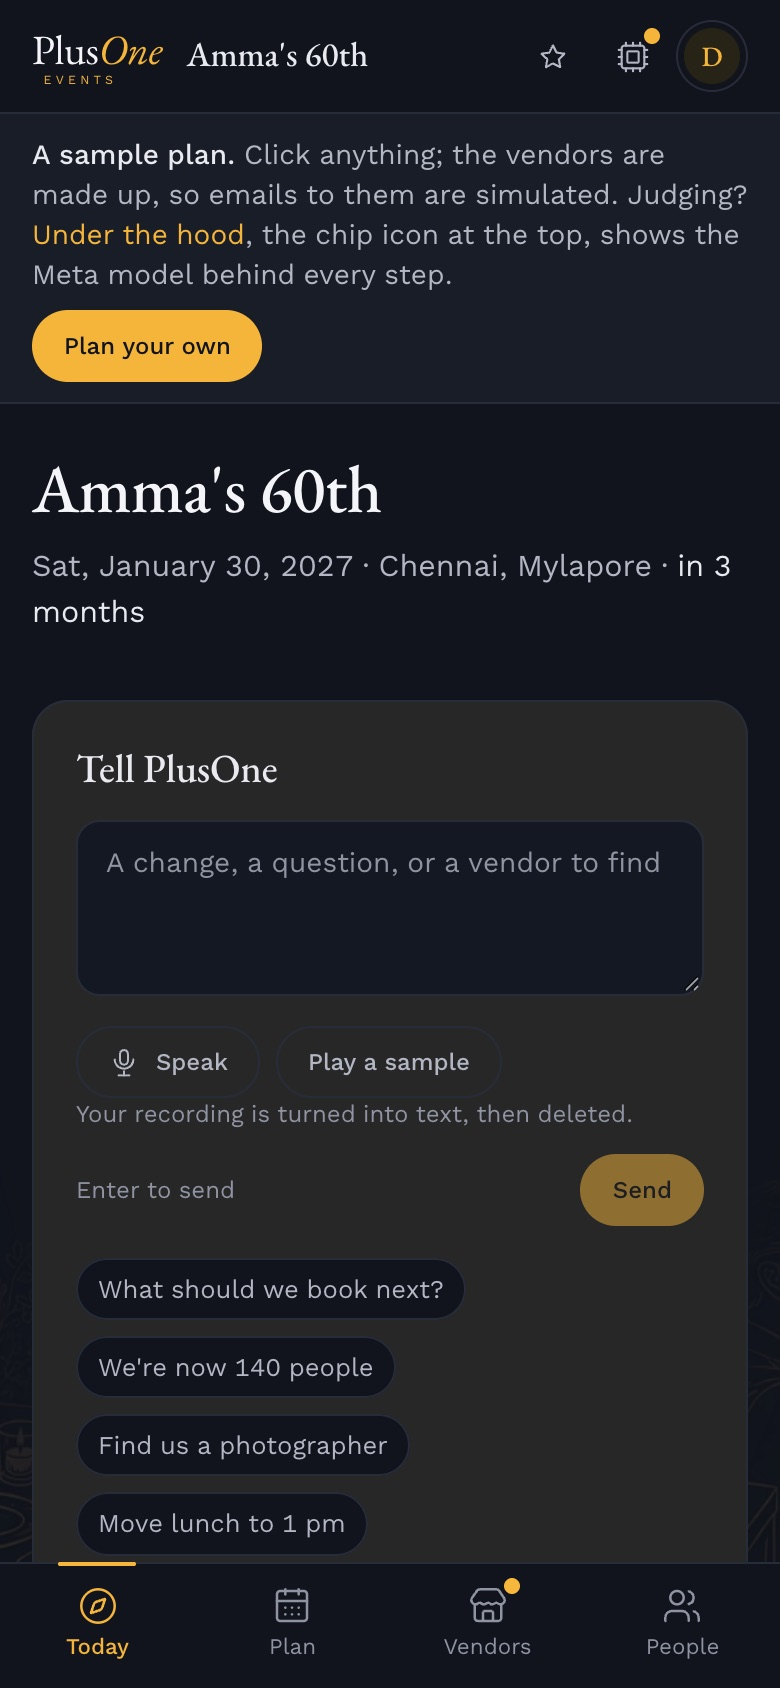
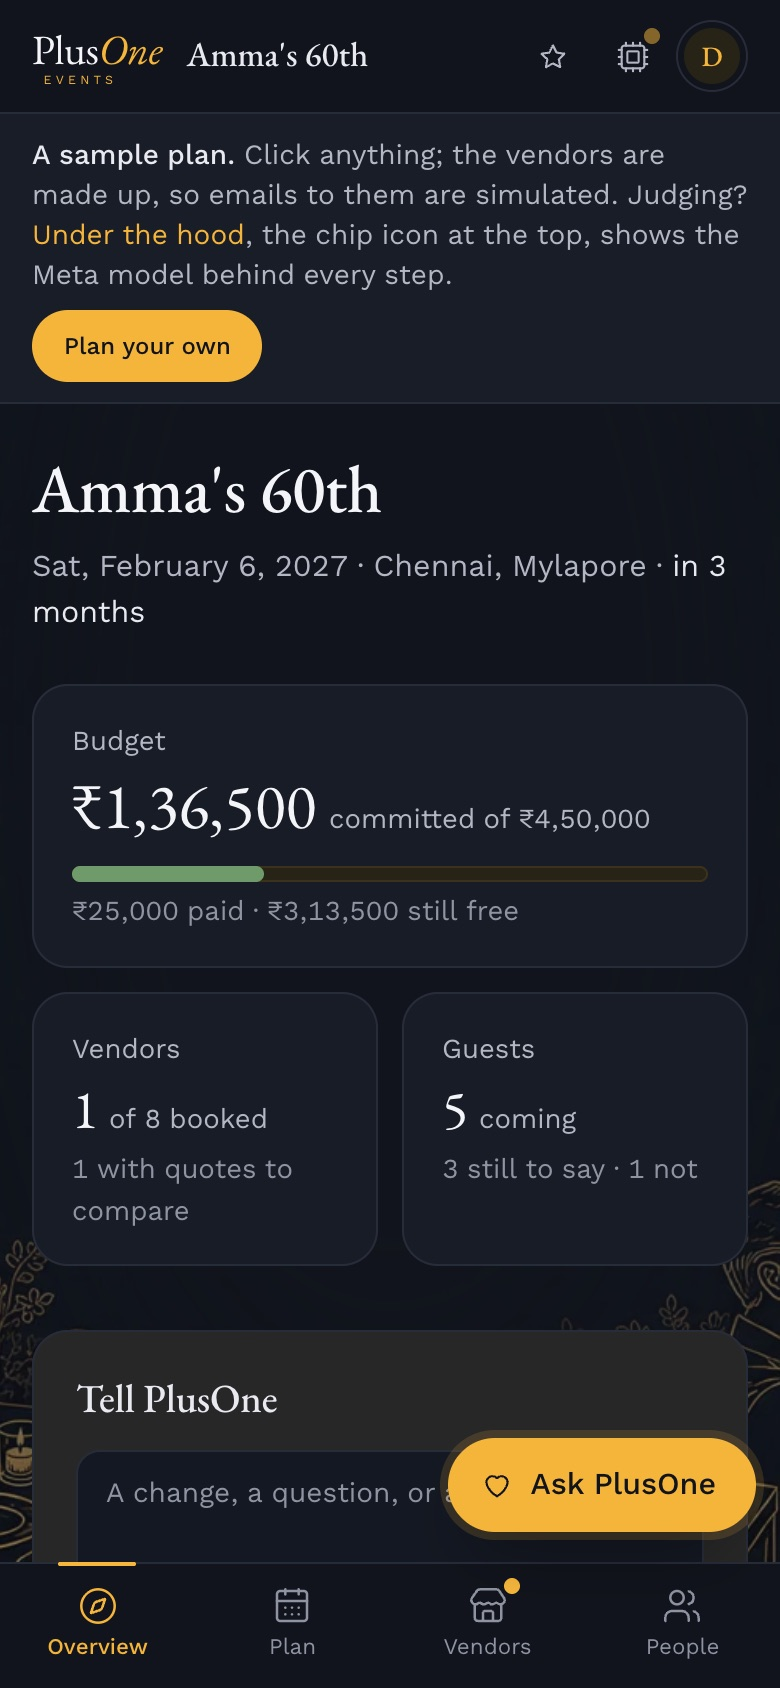
README and docs: Overview, booking outside PlusOne, milestones and RSVP links; 803 tests; new screenshots
Today is Overview everywhere in the README, How it works and What's new,
with fresh screenshots of the live demo's Overview (laptop and phone) and
the Plan lane showing planned amounts. Today's features are listed: a
vendor booked outside PlusOne in one step (also from the assistant),
Overview with the budget first, milestones instead of vendors' names, and
everyone's RSVP links on the event page.

diff --git a/README.md b/README.md
@@ -16,7 +16,7 @@
 ![Event](https://img.shields.io/badge/event-Meta_Global_AI_Developer_Hackathon-f4b53a?style=flat-square&labelColor=11141c)
 ![Track](https://img.shields.io/badge/track-Startups-f4b53a?style=flat-square&labelColor=11141c)
 ![Status](https://img.shields.io/badge/status-working_end_to_end-c4dfbc?style=flat-square&labelColor=11141c)
-![Tests](https://img.shields.io/badge/tests-796_passing-c4dfbc?style=flat-square&labelColor=11141c)
+![Tests](https://img.shields.io/badge/tests-803_passing-c4dfbc?style=flat-square&labelColor=11141c)
 [![License](https://img.shields.io/badge/license-FSL--1.1--ALv2-b3b7c3?style=flat-square&labelColor=11141c)](LICENSE.md)
 
 <table align="center">
@@ -86,8 +86,8 @@ More vendors on Partner widen what customers can compare; more customers bring v
 ## For the judges
 
 **Try it in two minutes.** [The demo](https://app.plusoneevents.site/demo) opens Amma's 60th with no sign-up (also a griha pravesam, `/demo?sample=housewarming`, and an office Diwali party, `/demo?sample=office`; their vendors are made up, so nothing is really sent).
-1. Start on **Today**, then **Vendors → Compare**: three caterers' emailed quotes and two sample Partner vendors' offers sit line by line on the same sheet, with what each leaves out flagged ("No water line, and one other charges ₹600") and the city's price range beside them.
-2. Press **Under the hood** in the top bar for each step's Meta model, time and cost; type "We're now 140 people" on Today to watch one run.
+1. Start on **Overview**, then **Vendors → Compare**: three caterers' emailed quotes and two sample Partner vendors' offers sit line by line on the same sheet, with what each leaves out flagged ("No water line, and one other charges ₹600") and the city's price range beside them.
+2. Press **Under the hood** in the top bar for each step's Meta model, time and cost; type "We're now 140 people" on Overview to watch one run.
 3. Open [PlusOne Partner's demo](https://partner.plusoneevents.site/demo) as a sample caterer, answer the customer's request on the same sheet, and see the offer as the customer does.
 4. Open [Find vendors](https://app.plusoneevents.site/vendors) and search "caterers near Mylapore under 450": vendors on a map in a circle around the area.
 
@@ -130,6 +130,8 @@ Before the event, PlusOne was a planner that talked a plan through, wrote to ven
 | **Vendors found on the open web,** listed openly as "not yet verified" with a link to their own site, to be claimed or removed by the business; vendor research searches the host's own words, never a price | Firecrawl, within robots.txt | Live, 31 Oct |
 | **Shared links that show the event:** an event page, RSVP or plan link shows the event's name, date, place and picture; each kind of event has its own line drawing, or the host's own picture. The event page opens on that picture, with the day as a timeline, a calendar file and directions | | Live, 31 Oct |
 | **A WhatsApp quote dropped on the event:** paste the message or drop the screenshot with no vendor or need chosen; it finds its vendor and need, adds them if new, and lands in Compare | Muse Spark 1.3 | Live, 31 Oct |
+| **A vendor booked outside PlusOne, in one step:** name, price agreed and what's paid; the need is booked, the budget takes the price, what's paid is marked paid and the balance goes on what's due. The assistant offers the same step as a "Do it" card | Muse Spark 1.3 (the assistant's card) | Live, 1 Nov |
+| **Overview, milestones and RSVP links:** the event opens on the budget, vendors booked and people coming; where things stand reads as milestones in the need's own name, never a vendor's; the event page lists everyone's own RSVP link to copy or send on WhatsApp | | Live, 1 Nov |
 
 ### How each criterion is met
 
@@ -137,7 +139,7 @@ Before the event, PlusOne was a planner that talked a plan through, wrote to ven
 |---|---|---|
 | **Impact (30%)**: real-world potential, who benefits, could people use it, fit to the problem statement | Families, teams and event managers plan across calls, chats and spreadsheets, with quotes no two alike and charges that arrive later; vendors with no website can't be found. PlusOne is one app for the whole plan, with every quote on the same lines. Live, free until launch, with a no-sign-up demo; on a real event, charges outside the headline prices came to about 10% of the quoted total. It earns from subscriptions first and, in the end, a disclosed commission on bookings made through PlusOne | [The business](#the-business), [How it works](#how-it-works) |
 | **Use of Meta AI tooling (25%)**: creative, beyond a basic integration, surprising capabilities | Six Meta models, each on the job it suits, chained in one flow, two of them open weights we host (Muse Glimmer on our own GPU, Muse Spark Open on Baseten). Every call shows in Under the hood with its model, time and cost | [Meta's models in PlusOne](#metas-models-in-plusone) |
-| **Technical depth and execution (20%)**: sound, refined engineering, real craft | The model reads; fixed, tested rules decide (what a quote leaves out, the market range, when a quote may move the budget). One wrapper: schema-checked output, retries honouring `Retry-After`, a logged fallback, a cost row per call. 796 tests, CI that builds the app, the live demo walked in a browser after every push and every three hours, an uptime check every five minutes, and evaluations with raw results, including a held-out set written by a separate agent | [Architecture](#architecture), [Measured results](#measured-results) |
+| **Technical depth and execution (20%)**: sound, refined engineering, real craft | The model reads; fixed, tested rules decide (what a quote leaves out, the market range, when a quote may move the budget). One wrapper: schema-checked output, retries honouring `Retry-After`, a logged fallback, a cost row per call. 803 tests, CI that builds the app, the live demo walked in a browser after every push and every three hours, an uptime check every five minutes, and evaluations with raw results, including a held-out set written by a separate agent | [Architecture](#architecture), [Measured results](#measured-results) |
 | **Demo (25%)**: working, impressive, holds up live, a video worth watching | Two demos with no sign-up, the customers' and the vendors', on the live site, with made-up vendors so nothing is really sent; retries, a fallback, rate limits and checks through judging; a three-minute video of the new work | [The demo](https://app.plusoneevents.site/demo), [the vendors' demo](https://partner.plusoneevents.site/demo) |
 
 ### Questions a judge will ask
@@ -173,7 +175,7 @@ Before the event, PlusOne was a planner that talked a plan through, wrote to ven
 | Model | Where it works in PlusOne | Status |
 |---|---|---|
 | **Muse Spark 1.3** (Meta Model API) | Every reading and writing step: the planning conversation, search plans and vendor ranking, inquiries and follow-ups, quotes in replies, PDFs and photos, RSVPs, guest-list imports and the "Tell PlusOne" box. Structured answers come back as JSON Schema, checked against Zod schemas | Live in production since 27 Oct |
-| **Muse Voice Transcribe** | The voice brief, spoken in Tamil, English or both (the demo's Today box can play a recorded sample brief, heard the same way); and a recorded call with a vendor, heard speaker by speaker (diarization) and read into the standard sheet (the demo's 47-second call in 10.9 s, every figure right: ₹460 a plate, GST ₹2,760, transport ₹2,500, water flagged) | Live in production since 28 Oct |
+| **Muse Voice Transcribe** | The voice brief, spoken in Tamil, English or both (the demo's Overview box can play a recorded sample brief, heard the same way); and a recorded call with a vendor, heard speaker by speaker (diarization) and read into the standard sheet (the demo's 47-second call in 10.9 s, every figure right: ₹460 a plate, GST ₹2,760, transport ₹2,500, water flagged) | Live in production since 28 Oct |
 | **SAM 3.1** | Cuts the stage and the wall behind it out of the hall's own photo, from boxes Muse Spark finds or a tap, so the page can dress them in a look; masks cached (9 s the first time, 1 s after) | Live in production, 29 Oct (`convex/lib/sam.ts`, `convex/venueView.ts`) |
 | **Muse Wonder** | The verification agent in Ops: checks a vendor against their own site and public pages, with links; a person decides | Live in production, 28 Oct (`convex/lib/wonder.ts`, `convex/marketplace/checks.ts`) |
 | **Muse Spark Open** (open weights, on Baseten) | **Bring your price list** on Partner: a vendor pastes or photographs the list they already send customers, and it drafts each package on their trade's sheet to check and save (a printed rate card into three packages, all right, in 8.4 s) | Live in production, 29 Oct (`convex/marketplace/priceList.ts`) |
@@ -182,7 +184,7 @@ Before the event, PlusOne was a planner that talked a plan through, wrote to ven
 
 **See it at work:** the **Under the hood** button in any event lists every step PlusOne ran, with the Meta model, time and cost. In the demo it opens on recorded real runs of each model on its own material.
 
-<img src="assets/screens/under-the-hood.jpg" width="100%" alt="Under the hood open beside Today in the sample event: recorded real runs of Muse Spark 1.3 reading three caterers' replies (7 to 14 seconds, about a cent each) and Muse Spark with SAM 3.1 finding the stage in the sample hall, each with its time, tokens and cost">
+<img src="assets/screens/under-the-hood.jpg" width="100%" alt="Under the hood open beside Overview in the sample event: recorded real runs of Muse Spark 1.3 reading three caterers' replies (7 to 14 seconds, about a cent each) and Muse Spark with SAM 3.1 finding the stage in the sample hall, each with its time, tokens and cost">
 
 Every call goes through one wrapper, `convex/lib/models.ts`: retries on 429, 500 and 503 honouring `Retry-After`; a call Meta can't answer moves to Claude, with the switch logged; Muse Spark Open and Muse Glimmer step down to Muse Spark. A malformed request is raised, not hidden. Every call writes a row to `modelCalls` with its feature, model, tokens and cost.
 
@@ -237,14 +239,14 @@ One app, two sides working on the same lines: customers plan and compare, vendor
 
 **Planning an event** (families, teams and event managers):
 1. **Talk it through**, typed or spoken; PlusOne asks for what it still needs and reads the plan back (`convex/planningChat.ts`).
-2. **Open on Today**, PlusOne's route through the event: done, under way, over to you, next. Four lanes (Today, Plan, Vendors, People) hold the budget, vendors, inbox, guests and the event page.
+2. **Open on Overview**: the budget (committed, paid, still free), vendors booked and people coming, then PlusOne's route through the event: done, under way, over to you, next, with to-dos beside it. Four lanes (Overview, Plan, Vendors, People) hold the budget, vendors, inbox, guests and the event page.
 3. **Find vendors** on the open web or among verified Partner vendors, on a map around the venue, and **write from the event's own inbox**; PlusOne follows up and answers simple questions.
 4. **Every quote on the same lines**, from an email, PDF, WhatsApp photo or call, then **Compare line by line** with missing charges flagged, the city's range from Value to Luxury, what each price includes, track records and checked photos.
 5. **See it on your venue**, **keep the budget honest** (a quote moves it, with an undo; one that looks off waits) and **guests and RSVPs** per function.
 
 <table>
 <tr>
-<td width="50%" valign="top"><img src="assets/screens/today.jpg" alt="Today for the sample 60th birthday: four done steps, two under way, one over to you, with the budget and a box to tell PlusOne a change"></td>
+<td width="50%" valign="top"><img src="assets/screens/today.jpg" alt="Overview for the sample 60th birthday: the budget, vendors booked and guests coming at the top, then where things stand and a box to tell PlusOne a change"></td>
 <td width="50%" valign="top"><img src="assets/screens/near-venue.jpg" alt="Flowers and decoration for the sample 60th: Near your venue, with Thamarai Hall in Mylapore pinned as the booked hall, a 5 km circle on the map of Chennai, and the decorators numbered by distance beside it"></td>
 </tr>
 </table>
@@ -286,7 +288,7 @@ Whatever arrives goes through the one wrapper to the Meta model suited to it and
 ```bash
 git clone https://github.com/pe-hq-alpha/plusone-app.git plusone && cd plusone
 npm ci
-npm test              # 796 tests, no network, no keys
+npm test              # 803 tests, no network, no keys
 npm run typecheck     # the app and the backend
 ```
 
@@ -294,7 +296,7 @@ The evaluations' raw results are in `scripts/*-run*.json`, so every number above
 
 ## Status and limits
 
-Planning works end to end: the conversation, the plan, Today, vendor search, emails, replies, quotes on the same lines, verified vendors' offers, the budget and dues, guests and RSVPs, the event page, gifts, sharing, imports, Spaces, the weekly update and people planning together.
+Planning works end to end: the conversation, the plan, Overview, vendor search, emails, replies, quotes on the same lines, verified vendors' offers, the budget and dues, guests and RSVPs, the event page, gifts, sharing, imports, Spaces, the weekly update and people planning together.
 
 - Vendor search is only as good as vendors' own websites: a vendor with no prices online comes back without one, until it replies.
 - A city's price range shows once eight listed prices sit behind it; until then Compare shows the range across the event's own quotes. A price that can't be put in the unit honestly is shown as quoted, not converted.

diff --git a/WHATS-NEW.md b/WHATS-NEW.md
@@ -13,7 +13,7 @@ Before the event, PlusOne was a planner that talked a plan through, wrote to ven
 | **The standard sheet:** what a quote must state for each kind of vendor (the unit, what's included, GST, transport, service, setup, overtime), shared by customers and vendors | Muse Spark reads each quote into it; fixed, tested rules do the rest | Live, 28 Oct (`convex/lib/standardSheet.ts`): ten trades, from venue, catering, decor and photography to cake, videography, entertainment, gifting and the priest; makeup and hair (a package or a price per look, with hair, draping, a trial and an early start on the same lines) added 30 Oct |
 | **Missing charges flagged** against the sheet and the other quotes, and **Compare line by line** with the city's market range | Muse Spark reads the quotes; the gaps and the range are fixed, tested rules | Live, 28 Oct: missing charges, line by line, and each city's range from vendors' listed prices (today Chennai's, from prices vendors publish online; the demo's range also counts its sample vendors, and never a real customer's) |
 | **A quote sent on WhatsApp:** add a photo or screenshot of a vendor's price list, a PDF or their pasted message, and it is read into the same lines as an emailed quote, landing in Compare | Muse Spark 1.3 (the photo goes in as an image) | Live, 28 Oct (`convex/sharedQuotes.ts`) |
-| **The voice brief:** speak the plan in Tamil, English or both | Muse Voice Transcribe, Muse Spark | Live in production, 28 Oct: a microphone in the planning chat and the Today box; the words land in the box to check and send, and the recording is deleted once read. In `convex/voiceBrief.ts` and `src/components/VoiceButton.tsx`, with the encoder and adapter in `convex/lib/wav.ts` and `convex/lib/voice.ts` |
+| **The voice brief:** speak the plan in Tamil, English or both | Muse Voice Transcribe, Muse Spark | Live in production, 28 Oct: a microphone in the planning chat and the Overview box; the words land in the box to check and send, and the recording is deleted once read. In `convex/voiceBrief.ts` and `src/components/VoiceButton.tsx`, with the encoder and adapter in `convex/lib/wav.ts` and `convex/lib/voice.ts` |
 | **See it on your venue:** the hall's own photo with the stage and the wall behind it found, cut out and dressed in a look (marigold, jasmine and rose, pastel, fairy lights); a tap re-picks a part | Muse Spark finds them, SAM 3.1 cuts them out | Live in production, 29 Oct (`convex/venueView.ts`, `src/pages/VenuePage.tsx`): on the guest demo the sample hall's stage was found and dressed in 9 s the first time, then 1 s from the cache |
 | **PlusOne Partner:** vendors register, price packages on the standard sheet and answer a customer's brief | Muse Spark (wording), Muse Glimmer (photos) | Live, 28 Oct: its own sign-in, joining or claiming a listing, prices and offers on the standard sheet in each trade's own units with what's in the price, offers landing in the customer's Compare, their wording tidied before customers see it ("rs.500/-" becomes "₹500", never a changed number, the vendor chooses), photos of their work checked and tagged on Muse Glimmer (29 Oct), and a vendors' demo of its own, separate from the customers', on its own address, partner.plusoneevents.site |
 | **PlusOne Ops:** a verification agent gathers evidence about a vendor, with links; a person decides | Muse Wonder | Review queue with its checklist, evidence and decisions live 28 Oct; the Muse Wonder check built into it 28 Oct ("Check this vendor", `convex/marketplace/checks.ts`), in production since 28 Oct; first live runs on 29 Oct ([Evaluation](EVALUATIONS.md#evaluation-checking-a-vendor)) |
@@ -32,6 +32,9 @@ Before the event, PlusOne was a planner that talked a plan through, wrote to ven
 | **Vendor research searches the host's words:** "biriyani in Neelankarai" is searched as written; no price or mood word goes into any search (they brought back directories, not vendors' sites), three searches instead of five, a slow page skipped after 12 s | Muse Spark 1.3 plans the searches; Firecrawl | Live, 31 Oct (`convex/lib/searchTerms.ts`, `convex/modelTasks.ts`) |
 | **Vendors found on the open web:** businesses looked up from public listings, kept only when their own site carries their name, listed in Find vendors as "Found through public web listings · not yet verified", with a link to claim or remove; their thumbnail is the image their own site sets for sharing, loaded from their site, never copied | Firecrawl, within each site's robots.txt | Live, 31 Oct (`convex/lib/leads.ts`, `convex/leadsRun.ts`) |
 | **Shared links that show the event, and covers for every kind of event:** a published event page, an RSVP link or a shared plan shows its own name, date, place and picture in a chat or a post; each kind of event has its own line drawing with no people, or the host's own picture, set from the home list | | Live, 31 Oct (`convex/og.ts`, `functions/_middleware.ts`, `public/covers/`, `src/pages/HomePage.tsx`) |
-| **A WhatsApp quote dropped on the event:** on Today, paste the vendor's message or drop a screenshot with no vendor or need chosen; Muse Spark reads who sent it and which need it is for, the vendor (and the need, if the event has none of that kind) is added, and the quote is read into the same lines in Compare | Muse Spark 1.3 (the screenshot goes in as an image) | Live, 31 Oct (`convex/quoteDrops.ts`, `src/components/QuoteDrop.tsx`), 4 tests |
+| **A WhatsApp quote dropped on the event:** on Overview, paste the vendor's message or drop a screenshot with no vendor or need chosen; Muse Spark reads who sent it and which need it is for, the vendor (and the need, if the event has none of that kind) is added, and the quote is read into the same lines in Compare | Muse Spark 1.3 (the screenshot goes in as an image) | Live, 31 Oct (`convex/quoteDrops.ts`, `src/components/QuoteDrop.tsx`), 4 tests |
+| **A vendor booked outside PlusOne, in one step:** on a need, "Already booked one yourself?" takes the vendor's name, the price agreed and what's been paid; the need is booked, the budget takes the price, what's paid is marked paid (the budget's paid figure follows) and the balance goes on what's due a month before the event. The assistant offers the same step as a card, and no longer says a change is done when it has only offered it | Muse Spark 1.3 (the assistant) | Live, 1 Nov (`convex/slots.ts` `bookedElsewhere`, `convex/assistant.ts`, `convex/modelTasks.ts`), 2 tests |
+| **Overview:** the first tab opens on the budget (committed, paid, still free), vendors booked and people coming, then where things stand, which reads as milestones in the need's own name ("Found 6 options for your caterer", "Caterer booked"), never a vendor's; to-dos sit beside it as a note | | Live, 1 Nov (`src/pages/TodayPage.tsx`, `convex/copilot.ts`), 3 tests |
+| **RSVP links for everyone:** the event page lists each person's own RSVP link to copy or send on WhatsApp, or copy all at once; the same link the guest list and the invitation email use | | Live, 1 Nov (`convex/site.ts` `rsvpLinks`, `src/pages/WebsitePage.tsx`), 1 test |
 
 Before the hackathon, PlusOne already planned an event from a conversation, found vendors, wrote to them from the event's inbox and put their quotes in one unit. [The README's Repository section](README.md#repository) gives the exact line between the two.

diff --git a/HOW-IT-WORKS.md b/HOW-IT-WORKS.md
@@ -11,16 +11,16 @@ One app, two sides working on the same lines: customers plan and compare, vendor
 For families, teams and event managers.
 
 1. **Talk it through.** "Amma's 60th, a homam at home and lunch for about 120." PlusOne asks for what it still needs, one thing at a time, reads it all back and flags anything that can't be right, like a weekday that doesn't match the date. The model reads each message; fixed rules decide what to ask next and when the plan is ready (`/new`, `convex/planningChat.ts`). A form at `/new/manual` does the same step by step.
-2. **Open on Today.** PlusOne's route through the event: what is done, under way, over to you and up next, each with the button that finishes it (`src/pages/TodayPage.tsx`). A box beside it takes a change in plain words: "we're now 140 people".
+2. **Open on Overview.** The budget, vendors booked and people coming at the top, then PlusOne's route through the event: what is done, under way, over to you and up next, each with the button that finishes it (`src/pages/TodayPage.tsx`). A box beside it takes a change in plain words: "we're now 140 people".
 
-<img src="assets/screens/today.jpg" width="100%" alt="Today for the sample 60th birthday: four done steps, two under way, one over to you, with the budget and a box to tell PlusOne a change">
+<img src="assets/screens/today.jpg" width="100%" alt="Overview for the sample 60th birthday: the budget, vendors booked and guests coming at the top, then where things stand and a box to tell PlusOne a change">
 
-3. **Everything in one place.** Four lanes, Today, Plan, Vendors and People, hold the functions, to-dos, budget, vendors, inbox, guests, gifts and the event page, so nothing lives in a separate spreadsheet or chat (`src/components/EventLayout.tsx`). The words follow the event: functions and guests for a birthday, sessions and attendees for a conference.
+3. **Everything in one place.** Four lanes, Overview, Plan, Vendors and People, hold the functions, to-dos, budget, vendors, inbox, guests, gifts and the event page, so nothing lives in a separate spreadsheet or chat (`src/components/EventLayout.tsx`). The words follow the event: functions and guests for a birthday, sessions and attendees for a conference.
 
 <table>
 <tr>
-<td width="30%" valign="top"><img src="assets/screens/today-phone.jpg" alt="Today on a phone: the box to tell PlusOne a change comes first, with the four lanes as a bar along the bottom"></td>
-<td valign="top"><img src="assets/screens/plan.jpg" alt="The Plan lane: the event, its budget committed, a morning pooja and a birthday lunch, and the next to-dos"><br><sub>On a phone, Today opens on the box to tell PlusOne a change, and the four lanes move to a bar along the bottom. On a laptop, the Plan lane: the event, the money committed so far, its two functions and what to do next.</sub></td>
+<td width="30%" valign="top"><img src="assets/screens/today-phone.jpg" alt="Overview on a phone: the budget first, then vendors and guests side by side, with the four lanes as a bar along the bottom"></td>
+<td valign="top"><img src="assets/screens/plan.jpg" alt="The Plan lane: a morning pooja and a birthday lunch, each need with its price or what is planned for it, beside the budget, vendors and guests"><br><sub>On a phone, Overview opens on the budget, then vendors and guests side by side, and the four lanes move to a bar along the bottom. On a laptop, the Plan lane: the two functions, each need with its price or what is planned for it, beside the budget, vendors and guests.</sub></td>
 </tr>
 </table>
 

diff --git a/SETUP.md b/SETUP.md
@@ -7,7 +7,7 @@
 ```bash
 git clone https://github.com/pe-hq-alpha/plusone-app.git plusone && cd plusone
 npm ci
-npm test              # 796 tests, no network, no keys
+npm test              # 803 tests, no network, no keys
 npm run typecheck     # the app and the backend
 ```
 
